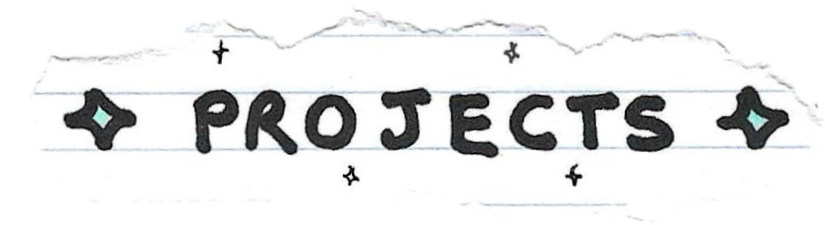
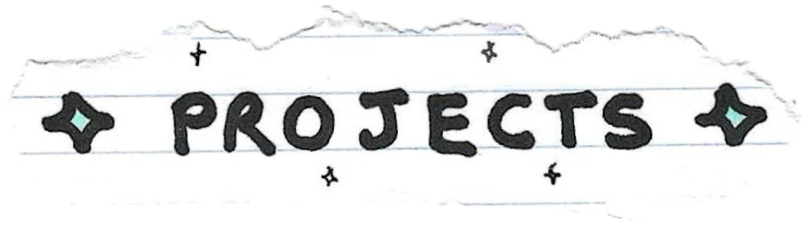
site updates!
it just gets weirder ^_^

diff --git a/index.html b/index.html
@@ -4,6 +4,7 @@
 
 
 <head>
+
     <meta charset="UTF-8">
     <meta name="viewport" content="width=device-width, initial-scale=1.0">
     <title>weird girl world</title>
@@ -19,10 +20,12 @@
     
     <p>idk have fun</p>
 
+
+<div class="button-section">
+
     <a href="rules.html">
         
-
-        <img src="assets/rules_button.png" class="img_scale cropped_rules default_image" alt="rules!">
+        <p><img src="assets/rules_button.png" class="img_scale cropped_rules" alt="rules!"></p>
 
         <!-- too lazy to fix "rules" graphic to be flush with "journal" graphic so i made a css class lol -->
 
@@ -32,9 +35,21 @@
     
      <a href="journal.html">
 
-        <p><img src="assets/journal_button.png" class="img_scale" alt="journal!"></p>
+      <p><img src="assets/journal_button.png" class="img_scale" alt="journal!"></p>
 
     </a>
+
+    <p></p>
+
+    <a target="_blank" href="https://www.instagram.com/desdotjs/">
+
+      <!-- target="_blank" opens new tab -->
+
+      <p><img src="assets/insta_button.png" class="img_scale cropped_rules" alt="insta!"></p>
+
+    </a>
+
+    </div>
     
     <!-- <a href="sketch-test/index.html">sketch-test</a> -->
     <!-- "href" means hyper text reference - fancy word for a link -->
@@ -43,11 +58,9 @@
 
     <img src="assets/projects_header_graphic.png" class="projects_img_scale" alt="projects below!">
 
-    <h2><p>2025</p></h2>
-
-    <a href="laundry-space/laundry-space-index.html">
+    <p><a href="laundry-space/laundry-space-index.html"></p>
       
-      <img src="assets/laundry_space_media/washer_icon.png" alt="laundry space">
+      <img src="assets/laundry_space_media/washer_icon.png" class="washer_img_scale" alt="laundry space">
 
     </a>
 

diff --git a/rules.html b/rules.html
@@ -8,7 +8,7 @@
     <meta name="viewport" content="width=device-width, initial-scale=1.0">
     <title>weird girl world</title>
     <script src="p5.js"></script>
-    <link rel="stylesheet" href="style.css">
+    <link rel="stylesheet" href="journal.css">
 
 </head>
 
@@ -18,7 +18,11 @@
 
     <p> 
         
-        <a href="index.html">home</a>
+            <a href="index.html">
+
+            <img src="assets/home_button.png" class="home_img_scale" alt="home!">
+
+        </a>
     
     </p>
 
@@ -31,7 +35,7 @@
         <li>it is okay to be pregnant</li>
         <li>give all your OCs similar attention or else their feelings get hurt</li>
         <li>whenever you feel chopped and unc take a shower and draw</li>
-        <li>do NOT have sex with broke men. you cannot sue them if something goes wrong</li>
+        <li>do NOT have hook up with broke men. you cannot sue them if something goes wrong</li>
 
        </ol>
     </p>

diff --git a/style.css b/style.css
@@ -14,12 +14,17 @@ body {
   /* a class is a reusable name you give to html elements so you can style or target them using css or js */
   /* a "." when labeling a class tells the browser to select all elements with that class name - can just be "button_scale" when calling it in html */
   
+    .insta_img_scale {
+
+    width: 35%; /* scales down img to */
+  }
 
   .cropped_rules {
     clip-path: inset(0 28% 0 5%); /* syntax: top right bottom left */
     position: relative; /* allows image to move */
     left: -2%; /* move image left by 30px */
   }
+
 
 canvas { 
     /* code for fullscreen sketch */
@@ -30,11 +35,18 @@ canvas {
     z-index: -1;
  } 
 
-       .projects_img_scale {
+.projects_img_scale {
 
-        width: 20%
+  width: 20%
 
-      }
+  }
+
+.washer_img_scale {
+
+  width: 9%;
+  height: auto; 
+
+}
 
 .h1 {
     font-size: 40px;

diff --git a/laundry-space/laundry-space.js b/laundry-space/laundry-space.js
@@ -253,8 +253,20 @@ class Bubble {
     constructor(x, y) {
 
       this.affirmation = pickRandom [("you CAN do it!", "woohoo!! ^_^", "you ARE beautiful", "i love you")];
-      
+      this.pos = createVector(x, y);
+      this.speed = 3;
+      // this.fade
 
+    }
+
+    update() {
+
+
+    }
+
+    spawn() {
+
+      
     }
 
 

diff --git a/journal.css b/journal.css
@@ -12,7 +12,6 @@ body {
         width: 20%; /* scales down img to */
       }
 
-
       .img_scale {
 
         width: 50%;
